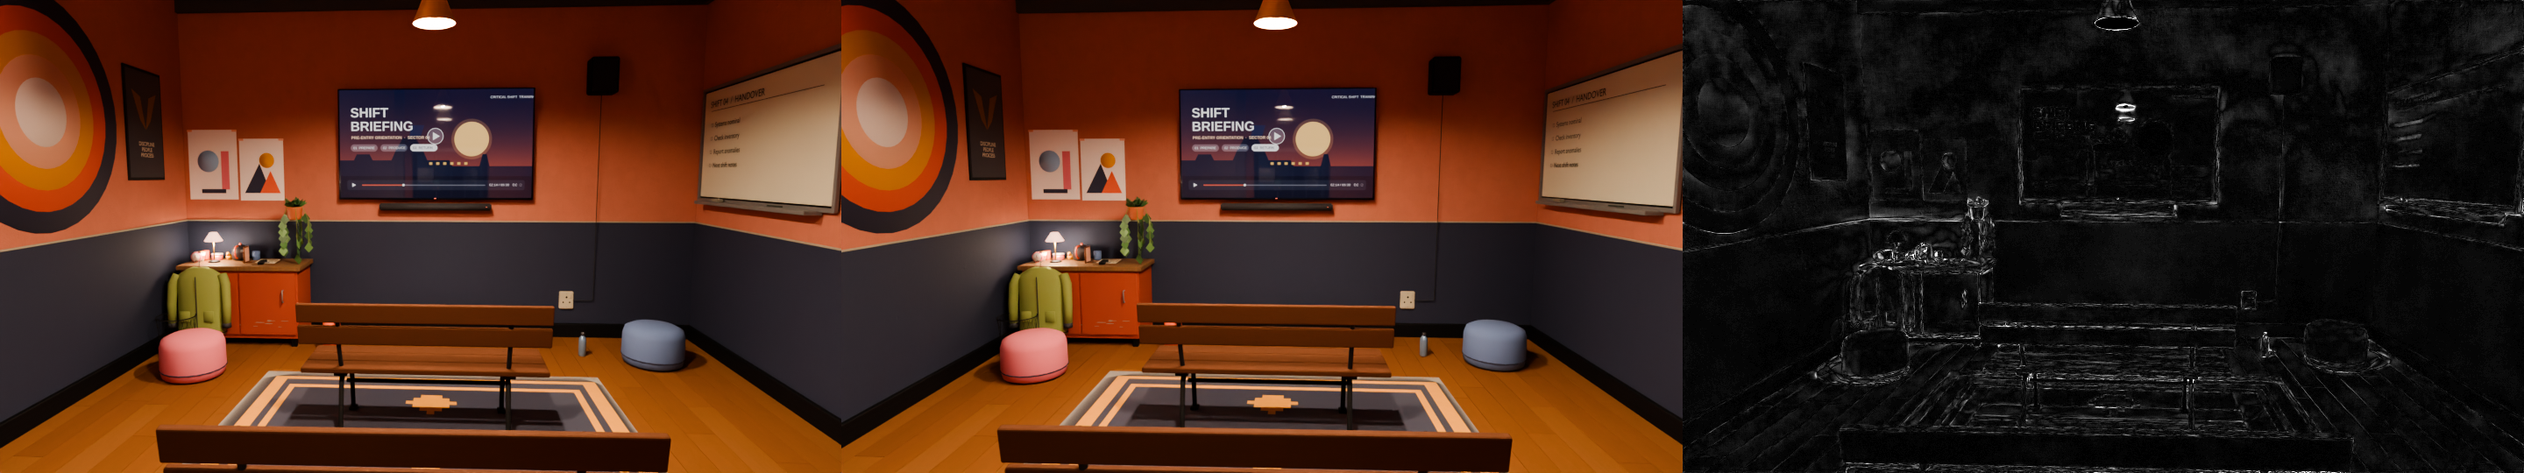
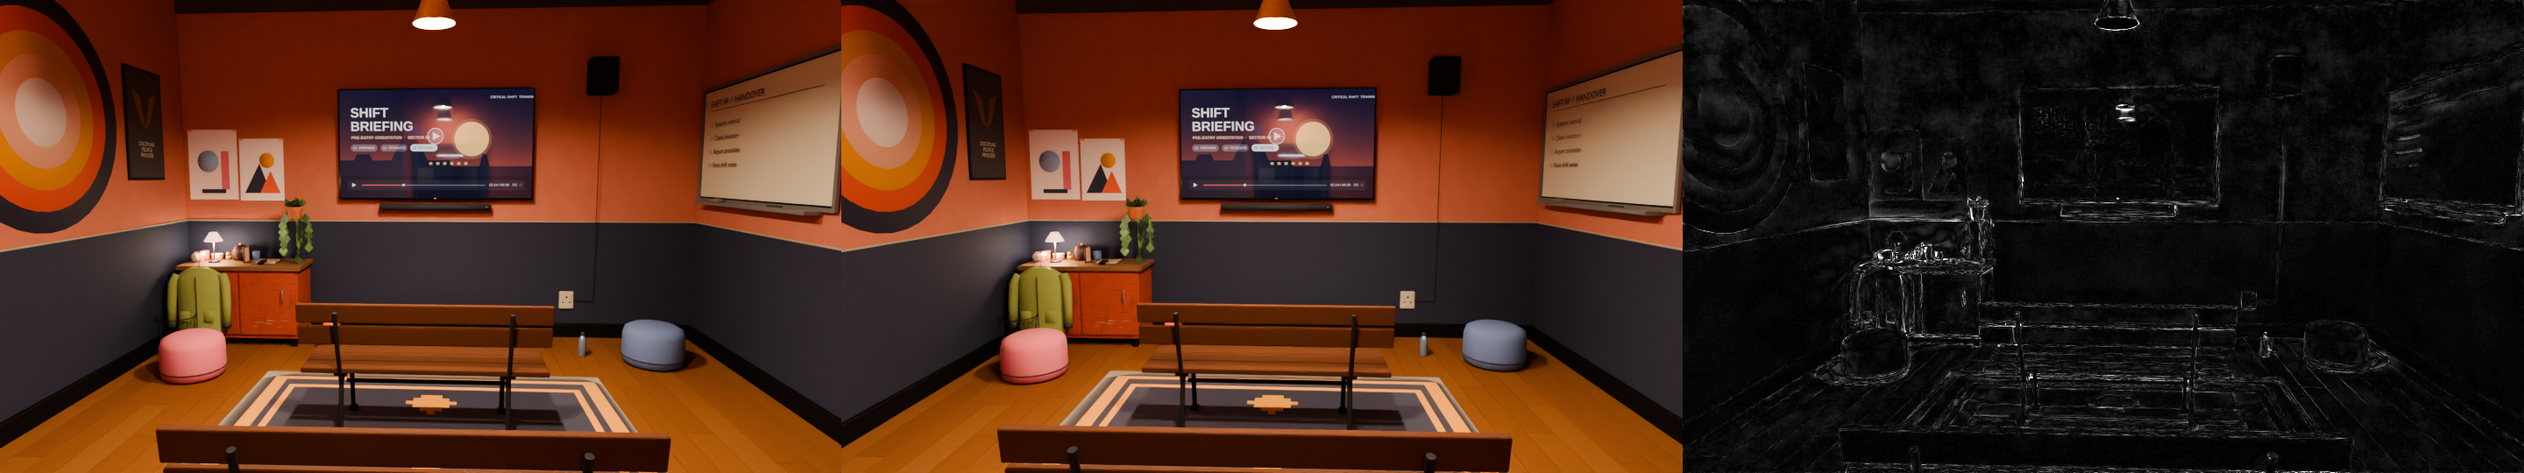
Spawn room polish pass: wear layer, doorway spill, bench posts, Material_A framing, equip contract
Critics rescored 85 and 82 of 100: still not accepted. Optimised derivative regenerated and compared.

Claude-Session: https://claude.ai/code/session_017ZYc5YVsgaxmMpnAsLGzAo

diff --git a/sections/spawn-room/blender/polish_spawn.py b/sections/spawn-room/blender/polish_spawn.py
@@ -1,0 +1,188 @@
+#!/usr/bin/env python3
+"""
+Spawn Room polish pass (final-pass critic findings): wear, doorway light, bench posts, Material_A framing.
+
+Run headlessly (Blender 5.2) on the canonical module, after add_hero_suits.py:
+    blender -b <input.blend> -P polish_spawn.py -- <output.blend>
+
+Idempotent: every step sets absolute values or removes what it added before adding it again.
+  1. BRIEFING_backrest_upright.*: posts moved behind the backrest boards, ending under the top board (they poked through
+     the boards as spikes), with capped ends.
+  2. Wear: a scuff layer (object-space noise mask: darker grime/scuffs, higher roughness) is added to V_locker_steel
+     (lockers), pressure_metal (airlock door face), CS_tile_floor, CS_hall_floor and rubber (mats, feet). Nothing is
+     recoloured: the original graph still drives the base colour, the layer only multiplies/mixes over it.
+  3. Doorway colour spill: one baked area light inside each of the briefing and locker rooms beside its hall door, tinted
+     to the room, so the hall gets colour falloff near the doors. Both are tagged like the existing baked lights.
+  4. Door-frame portals use a slightly lifted graphite instead of the pure-black darksteel so the frames read as frames.
+  5. VALIDATE_Material_A (26 mm, from the locker-room door side) is reframed to hold wall, floor, painted equipment, rubber, paper and glass (CAMERAS.md).
+"""
+import math
+import sys
+
+import bpy
+from mathutils import Vector
+
+OUT = sys.argv[sys.argv.index("--") + 1] if "--" in sys.argv else None
+M = bpy.data.materials
+scene = bpy.context.scene
+LAYER = "POLISH_scuff"
+
+
+# ---------------------------------------------------------------- 1. bench posts
+for o in bpy.data.objects:
+    if o.name.startswith("BRIEFING_backrest_upright") and o.type == "CURVE":
+        s = o.data.splines[0]
+        sx = s.points[0].co[0]
+        for p, (y, z) in zip(s.points, ((0.18, 0.35), (0.28, 0.59), (0.335, 0.82))):
+            p.co = (sx, y, z, 1.0)
+        o.data.use_fill_caps = True
+        o.data.bevel_resolution = 4
+
+
+# ---------------------------------------------------------------- 2. wear
+def add_scuffs(mat, scale, tint, strength, rough_add, streak=0.0, lo=0.52, hi=0.8):
+    nt = mat.node_tree
+    pr = next(n for n in nt.nodes if n.type == "BSDF_PRINCIPLED")
+    # a previous run: put the original base colour / roughness source back before removing the layer
+    for key, idx in (("Base Color", 6), ("Roughness", 2)):
+        sock = pr.inputs[key]
+        if sock.is_linked and sock.links[0].from_node.label.startswith(LAYER):
+            src = sock.links[0].from_node
+            if src.inputs[idx].is_linked:
+                nt.links.new(src.inputs[idx].links[0].from_socket, sock)
+            else:
+                sock.default_value = src.inputs[idx].default_value if key == "Base Color" else src.inputs[idx].default_value
+    for n in [n for n in nt.nodes if n.label.startswith(LAYER)]:
+        nt.nodes.remove(n)
+
+    def node(kind, label, **kw):
+        n = nt.nodes.new(kind)
+        n.label = "%s %s" % (LAYER, label)
+        for k, v in kw.items():
+            setattr(n, k, v)
+        return n
+
+    tc = node("ShaderNodeTexCoord", "coords")
+    mp = node("ShaderNodeMapping", "map")
+    mp.inputs["Scale"].default_value = (scale, scale, scale)
+    nz = node("ShaderNodeTexNoise", "noise")
+    nz.inputs["Scale"].default_value = 1.0
+    nz.inputs["Detail"].default_value = 9.0
+    nz.inputs["Roughness"].default_value = 0.68
+    nz.inputs["Distortion"].default_value = 0.35
+    ramp = node("ShaderNodeValToRGB", "ramp")
+    ramp.color_ramp.elements[0].position, ramp.color_ramp.elements[1].position = lo, hi
+    nt.links.new(tc.outputs["Object"], mp.inputs["Vector"])
+    nt.links.new(mp.outputs["Vector"], nz.inputs["Vector"])
+    nt.links.new(nz.outputs["Fac"], ramp.inputs["Fac"])
+    mask = ramp.outputs["Color"]
+    if streak:
+        sm = node("ShaderNodeMapping", "streak_map")
+        sm.inputs["Scale"].default_value = (scale * 0.7, scale * 0.7, scale * 9.0)
+        sn = node("ShaderNodeTexNoise", "streak_noise")
+        sn.inputs["Scale"].default_value = 1.0
+        sn.inputs["Detail"].default_value = 5.0
+        sr = node("ShaderNodeValToRGB", "streak_ramp")
+        sr.color_ramp.elements[0].position, sr.color_ramp.elements[1].position = 0.55, 0.78
+        nt.links.new(tc.outputs["Object"], sm.inputs["Vector"])
+        nt.links.new(sm.outputs["Vector"], sn.inputs["Vector"])
+        nt.links.new(sn.outputs["Fac"], sr.inputs["Fac"])
+        mx = node("ShaderNodeMath", "streak_mix", operation="MAXIMUM")
+        mul = node("ShaderNodeMath", "streak_scale", operation="MULTIPLY")
+        mul.inputs[1].default_value = streak
+        nt.links.new(sr.outputs["Color"], mul.inputs[0]) if False else None
+        # ramp output is colour: take its red through a Separate node via Math on the Color's first channel
+        sep = node("ShaderNodeSeparateColor", "streak_sep")
+        sep2 = node("ShaderNodeSeparateColor", "mask_sep")
+        nt.links.new(sr.outputs["Color"], sep.inputs["Color"])
+        nt.links.new(ramp.outputs["Color"], sep2.inputs["Color"])
+        nt.links.new(sep.outputs["Red"], mul.inputs[0])
+        nt.links.new(sep2.outputs["Red"], mx.inputs[0])
+        nt.links.new(mul.outputs["Value"], mx.inputs[1])
+        mask = mx.outputs["Value"]
+    else:
+        sep2 = node("ShaderNodeSeparateColor", "mask_sep")
+        nt.links.new(ramp.outputs["Color"], sep2.inputs["Color"])
+        mask = sep2.outputs["Red"]
+    fac = node("ShaderNodeMath", "strength", operation="MULTIPLY")
+    fac.inputs[1].default_value = strength
+    nt.links.new(mask, fac.inputs[0])
+
+    # base colour: original -> mix toward the scuff tint by the mask (the original graph is untouched)
+    bc = pr.inputs["Base Color"]
+    mixc = node("ShaderNodeMix", "colour", data_type="RGBA", blend_type="MIX")
+    if bc.is_linked:
+        orig = bc.links[0].from_socket
+        nt.links.new(orig, mixc.inputs[6])
+    else:
+        mixc.inputs[6].default_value = bc.default_value
+    base_rgb = [bc.default_value[i] for i in range(3)]
+    mixc.inputs[7].default_value = (tint[0], tint[1], tint[2], 1.0) if tint is not None else (*[c * 0.55 for c in base_rgb], 1.0)
+    nt.links.new(fac.outputs["Value"], mixc.inputs[0])
+    nt.links.new(mixc.outputs[2], bc)
+    # roughness: original + mask * rough_add
+    rg = pr.inputs["Roughness"]
+    ra = node("ShaderNodeMath", "rough_add", operation="MULTIPLY_ADD", use_clamp=True)
+    ra.inputs[1].default_value = rough_add
+    nt.links.new(fac.outputs["Value"], ra.inputs[0])
+    if rg.is_linked:
+        nt.links.new(rg.links[0].from_socket, ra.inputs[2])
+    else:
+        ra.inputs[2].default_value = rg.default_value
+    nt.links.new(ra.outputs["Value"], rg)
+
+
+add_scuffs(M["V_locker_steel"], 7.0, None, 0.55, 0.22, streak=0.8)
+add_scuffs(M["pressure_metal"], 4.0, (0.20, 0.20, 0.19), 0.6, 0.28, streak=0.9)
+add_scuffs(M["CS_tile_floor"], 2.4, (0.20, 0.19, 0.17), 0.40, 0.12, lo=0.5, hi=0.85)
+add_scuffs(M["CS_hall_floor"], 2.0, (0.18, 0.12, 0.08), 0.35, 0.12, lo=0.5, hi=0.85)
+add_scuffs(M["rubber"], 5.0, (0.10, 0.10, 0.10), 0.45, 0.10, lo=0.5, hi=0.82)
+
+
+# ---------------------------------------------------------------- 3. doorway colour spill
+for o in [o for o in bpy.data.objects if o.name.startswith(("LOCKER_light_spill", "COZY_light_BRIEFING_spill"))]:
+    bpy.data.objects.remove(o, do_unlink=True)
+
+
+def spill(name, loc, colour, watts, group):
+    ld = bpy.data.lights.new(name, "AREA")
+    ld.shape, ld.size, ld.size_y, ld.energy, ld.color = "RECTANGLE", 0.7, 0.7, watts, colour
+    lo = bpy.data.objects.new(name, ld)
+    lo.location = loc
+    aim = Vector((0.0, loc[1], 1.1)) - Vector(loc)
+    lo.rotation_euler = aim.to_track_quat("-Z", "Y").to_euler()
+    lo["cs_rt_role"] = "baked_plus_emissive_fixture"
+    lo["cs_rt_group"] = group
+    lo["cs_rt_shadow"] = False
+    col = bpy.data.collections.get("MODULE_spawn-room") or scene.collection
+    col.objects.link(lo)
+
+
+spill("COZY_light_BRIEFING_spill", (-2.3, 3.7, 2.5), (1.0, 0.60, 0.38), 70.0, "briefing_and_accents")
+spill("LOCKER_light_spill", (2.3, 3.7, 2.5), (0.70, 0.80, 1.00), 70.0, "locker_power")
+
+
+# ---------------------------------------------------------------- 4. portal frames
+if "portal_frame" not in M:
+    pf = M.new("portal_frame")
+    pf.use_nodes = True
+pb = next(n for n in M["portal_frame"].node_tree.nodes if n.type == "BSDF_PRINCIPLED")
+pb.inputs["Base Color"].default_value = (0.02, 0.021, 0.024, 1.0)
+pb.inputs["Roughness"].default_value = 0.5
+for o in bpy.data.objects:
+    if o.type == "MESH" and ("_portal_head" in o.name or "_portal_jamb" in o.name):
+        o.data.materials.clear()
+        o.data.materials.append(M["portal_frame"])
+
+
+# ---------------------------------------------------------------- 5. Material_A framing
+cam = bpy.data.objects["VALIDATE_Material_A"]
+MAT_LOC = (2.5, 4.3, 1.15)
+MAT_TGT = (5.2, 2.7, 0.7)
+cam.location = MAT_LOC
+cam.data.lens = 26.0
+cam.rotation_euler = (Vector(MAT_TGT) - Vector(MAT_LOC)).to_track_quat("-Z", "Y").to_euler()
+
+if OUT:
+    bpy.ops.wm.save_as_mainfile(filepath=OUT)
+    print("saved", OUT)

diff --git a/sections/spawn-room/blender/add_hero_suits.py b/sections/spawn-room/blender/add_hero_suits.py
@@ -185,7 +185,9 @@ for n in (1, 2, 3, 4):
         link_cols(e)
     asset["asset_role"] = "equippable_suit"
     asset["cs_equip_station"] = n                  # player/station i; equipping hides this asset until it is returned
-    asset["cs_hide_on_equip"] = True
+    asset["cs_hide_on_equip"] = True               # hidden while the player wears it
+    asset["cs_show_on_unequip"] = True             # reappears when it is taken off
+    asset["cs_unequip_only_at_station"] = True     # it can only be taken off at its own locker
     asset["cs_support_target"] = ro.name
     asset["cs_support_direction"] = "WORLD_-Z"
     for cname in ("MODULE_spawn-room", "PPE_STATIONS", "CS_SUPPORT_REQUIRED", "CS_FLOOR_DRESSING"):

diff --git a/sections/spawn-room/production/optimise/README.md b/sections/spawn-room/production/optimise/README.md
@@ -17,12 +17,12 @@ Regenerate with Blender 5.2 (the module is a 5.2 file; the `bpy` wheel on PyPI i
 | | module.blend | module_optimised.blend |
 |---|---:|---:|
 | Render-visible geometry objects | 1,570 | 759 |
-| Triangles | 351,478 | 351,478 |
+| Triangles | 351,590 | 351,590 |
 | Draw-call estimate (objects x material slots, before any engine batching) | 1,918 | 762 |
-| Materials in use | 204 | 31 (30 visible plus one untouched copy for animated labels; the 24-material spawn-room cap comes from the per-room budget in PR #59, branch `claude/eloquent-rubin-5y6lnu`, `design/MATERIAL_BUDGETS.md`, where the owner's approval of 2026-10-01 is recorded; that document is not on `main` yet) |
-| Lights | 18 | 18 (the optimisation changes none, it only tags roles; the 18 are the 14 original lights plus the 4 baked locker strip lights added by the hero pass) |
+| Materials in use | 205 | 31 (30 visible plus one untouched copy for animated labels; the 24-material spawn-room cap comes from the per-room budget in PR #59, branch `claude/eloquent-rubin-5y6lnu`, `design/MATERIAL_BUDGETS.md`, where the owner's approval of 2026-10-01 is recorded; that document is not on `main` yet) |
+| Lights | 20 | 20 (the optimisation changes none, it only tags roles; the 20 are the 14 original lights, 4 baked locker strip lights and 2 baked doorway spill lights added by the hero and polish passes) |
 
-Numbers reflect the module after the hero-suit pass (`../../blender/add_hero_suits.py`: the crew worker's own hazmat suit hung in each of the four PPE lockers).
+Numbers reflect the module after the hero-suit pass (`../../blender/add_hero_suits.py`: the crew worker's own hazmat suit hung in each of the four PPE lockers) and the polish pass (`../../blender/polish_spawn.py`).
 
 Every number below (objects, joins, conversions, draw calls, materials) comes from one run, recorded in
 `optimise_report.json` next to this file.
@@ -36,7 +36,7 @@ Every number below (objects, joins, conversions, draw calls, materials) comes fr
    attributes `CS_GEN` / `CS_OBJ`, on every mesh including hidden ones, and those materials read the attributes, so joining
    parts cannot change a pattern. Curve/text objects that stay curves cannot carry attributes, so they keep an
    untouched copy of the material (`<name>__noattr`).
-3. The 140 constant-colour Principled materials are folded into one `PAL_flat` material: three packed 16x16 float images
+3. The 141 constant-colour Principled materials are folded into one `PAL_flat` material: three packed 16x16 float images
    (albedo, roughness+metal, emission), `Closest` sampling, a `CS_PAL` UV layer. Cell mapping is in text block `OPT_PALETTE`.
 3b. **Material families** (the method of the reactor control room, PR #54; budgets in PR #59): materials with exactly the same node graph that differ only in
    constants become one `FAM ...` material. The constants (every differing socket value, and the two stop colours of each
@@ -67,22 +67,22 @@ Every number below (objects, joins, conversions, draw calls, materials) comes fr
   lost the keyframes of
   `POD_state_READY` (an animated text object converted to a mesh); Codex's review of #60 caught this class of bug and the
   comparison now fails on it, and also fails if the derivative gains an action, driver or NLA entry the original did not have.
-- `validate_contacts.py` on the derivative: PASS (208 tagged objects, 0 failures) on the post-suit module, same as the original (the count was 224 before the suit pass removed the belongings and added the hooks, docks and strip lights). (An earlier
+- `validate_contacts.py` on the derivative: PASS (208 tagged objects, 0 failures) on the post-polish module, same as the original (the count was 224 before the suit pass removed the belongings and added the hooks, docks and strip lights). (An earlier
   version of this script merged support targets and failed 48 of them; targets are now kept by name.)
 - Render comparison (Cycles, 48 samples, denoised, fixed seed, 960x540) on six fixed validation cameras, original vs
   derivative; `renders/<camera>.png` shows before | after | difference amplified 6x:
 
   | Camera | mean abs diff | 99th percentile | pixels differing by more than 8% |
   |---|---:|---:|---:|
-  | VALIDATE_Spawn | 0.0066 | 0.047 | 0.186% |
-  | VALIDATE_LockerDoor | 0.0073 | 0.047 | 0.194% |
-  | VALIDATE_BriefingDoor | 0.0091 | 0.051 | 0.311% |
-  | VALIDATE_ExitReverse | 0.0057 | 0.039 | 0.101% |
-  | VALIDATE_Hero_A | 0.0071 | 0.051 | 0.249% |
-  | VALIDATE_Material_A | 0.0062 | 0.039 | 0.112% |
+  | VALIDATE_Spawn | 0.0067 | 0.043 | 0.169% |
+  | VALIDATE_LockerDoor | 0.0072 | 0.043 | 0.134% |
+  | VALIDATE_BriefingDoor | 0.0087 | 0.051 | 0.295% |
+  | VALIDATE_ExitReverse | 0.0060 | 0.039 | 0.100% |
+  | VALIDATE_Hero_A | 0.0067 | 0.043 | 0.159% |
+  | VALIDATE_Material_A | 0.0081 | 0.047 | 0.160% |
 
   The differences sit on edges (anti-aliasing and denoiser noise from a different object order); there are no
-  colour or pattern shifts. Rendered again on the post-suit module and its regenerated derivative; I looked at the Hero_A montage (suit, visor, boot dock and strip light match, differences on edges only); the other five were checked by the numbers only. This is a Cycles comparison, not engine rendering, and not art approval.
+  colour or pattern shifts. Rendered again on the post-polish module (wear layer, doorway spill, reframed Material_A) and its regenerated derivative; I looked at the Material_A montage (wear, suit, glass and lights match, differences on edges only); the other five were checked by the numbers only. This is a Cycles comparison, not engine rendering, and not art approval.
 
 ## Not done / not claimed
 

diff --git a/sections/spawn-room/production/final-pass/REPORT.md b/sections/spawn-room/production/final-pass/REPORT.md
@@ -33,9 +33,30 @@ The owner confirmed four lockers, one per player. A first hand-modelled suit was
 - `../../blender/add_hero_suits.py` (idempotent) builds one suit per locker `PPE_01..04` without the wearer (skin, head and face removed), facing the open front, pack against the back panel, hung by a strap from the rescue handle to a hook over the hanger rail. Per-player accent colour: blue, green, magenta, cream. Suit scale is the player's (about 1.7 m including the hood antenna).
 - It removes the personal-belongings dressing the suit replaces (jacket, wooden hangers, mid shelf and contents, floor work boots) and the earlier hand-modelled suit, helmet and cradle. The locker `contents` property is updated.
 - Contacts: hooks rest on the hanger rail; `validate_contacts.py` **PASS 208/208** (224 before; the difference is the removed belongings, minus the added hooks and strip lights). `check_layout.py` still 6 PASS; a missing or renamed named object or collection is now reported `MISSING` in the JSON instead of aborting the run.
-- `module_optimised.blend` regenerated: 759 objects, 762 draw calls, 31 materials, 351,478 triangles (about 28,000 more than the suit-less room, 7,000 per suit: the cost of using the player's own mesh); `compare_signatures.py` before/after PASS.
+- `module_optimised.blend` regenerated: 759 objects, 762 draw calls, 31 materials, 351,590 triangles after the polish pass (about 28,000 more than the suit-less room, 7,000 per suit: the cost of using the player's own mesh); `compare_signatures.py` before/after PASS.
 - Renders with suits: `renders_with_suits/` (Spawn, LockerDoor, LockerReverse, Hero_A, 480p, 16 spp).
 - **Lighting and suit fixes (owner request):** each locker has a baked strip light under its upper shelf (visible fixture, 40 W area, tagged `baked_plus_emissive_fixture` / `locker_power`, not dynamic; light budget unchanged at 4 dynamic, 2 shadow casters), set behind the hood so the visor does not mirror it. The neck stub is cut and capped with a dark inner collar. Hall lighting and the other rooms were **not** changed.
 - **Floating fix:** each suit now stands on a low steel boot dock (plate, rubber pad, two legs) on the locker floor, measured to the sole underside and registered against the floor shelf, in addition to the strap and hook. Render: `renders_with_suits/locker1_boot_dock.png`.
 - **Equip:** the suit asset carries `cs_equip_station` and `cs_hide_on_equip`; the toggle itself is runtime logic and is not built or tested. See `SUIT_EQUIP.md`.
 - **Not re-scored.** The critic scores above predate the suits. Open items from the list above remain: material wear, lighting falloff, LockerReverse white blob, Walk_C bench uprights, plants and signage.
+
+## Update: polish pass (owner request) and critic rescore
+`../../blender/polish_spawn.py` (idempotent, run after `add_hero_suits.py`) applied, to the canonical module:
+- **Bench posts:** `BRIEFING_backrest_upright.*` moved behind the backrest boards and ending under the top board, ends capped (they poked through as spikes in Walk_C).
+- **Wear:** a scuff layer (object-space noise mask: darker grime and scuffs, rougher) added over the original graphs of `V_locker_steel` (lockers), `pressure_metal` (airlock door face), `CS_tile_floor`, `CS_hall_floor` and `rubber`; the original graph still drives the base colour.
+- **Doorway colour spill:** two baked area lights (warm in the briefing room, cool in the locker room) beside the hall doors; the module now has 20 lights (14 original, 4 locker strips, 2 spill), still 4 dynamic and 2 shadow casters.
+- **Door frames:** the portal frames use a lifted graphite (`portal_frame`) instead of pure-black `darksteel`.
+- **Material_A:** reframed (26 mm, from the locker-room door side) to hold wall, floor, painted locker, rubber, paper and glass.
+- **LockerReverse "white blob":** not geometry. A ray through it hits only the chamber glass and the wall behind; it is the reflection of a ceiling strip in the curved glass, so it was left.
+- **Equip contract updated** with the owner's decision: the suit reappears once removed and can only be removed at its own locker (`cs_show_on_unequip`, `cs_unequip_only_at_station`; `SUIT_EQUIP.md`). Runtime logic is still not built.
+
+Checks that ran: `validate_contacts.py` PASS 208/208 on the canonical module and on the regenerated `module_optimised.blend`; `check_layout.py` 6 PASS; `compare_signatures.py` canonical vs optimised PASS.
+
+**Critic rescore** (two fresh-context critics, 11 renders in `renders_polish/`, 1280x720, 64 spp): **85 and 82 of 100. Still below 90, the room is NOT accepted.** Before the suits and polish the scores were 85 and 72.
+Common remaining findings:
+1. The suits (the owner's chosen player-character suit) read as a toy or plush mannequin to the critics: no fabric folds or seams. This is the owner's design; any change is an owner decision.
+2. Hall lighting still reads even (two ceiling strips, little falloff); materials wear is subtle; locker doors are large flat slabs in the foreground of LockerDoor and LockerReverse.
+3. Low-poly plants and the amount of signage (bulletin board, slogan board) read as filler or heavy.
+4. Camera framing: LockerDoor hides one suit per side behind open doors; one critic called the Spawn black door-frame slab at the far left a geometry error (it is the black frame of the briefing door).
+5. The LockerReverse chamber glass reflection reads as an artefact to both critics.
+Reaching 90 needs owner-level decisions (suit style and fabric detail, plants, signage, door sizes) rather than more material tweaks.

diff --git a/sections/spawn-room/production/TASK_STATE.md b/sections/spawn-room/production/TASK_STATE.md
@@ -6,7 +6,7 @@
 
 
 **Current phase:** Built; final pass run, NOT accepted (see [final-pass/REPORT.md](final-pass/REPORT.md))
-**Current overall score:** Independent critics 85 and 72 of 100 on the pre-suit renders (needs >= 90); not re-scored since
+**Current overall score:** Independent critics 85 and 82 of 100 after the suits and the polish pass (needs >= 90)
 **Cold-start status:** Not run
 **Authoritative source:** ../../facility-assembly/sources/spawn-room/module.blend (runtime derivative: module_optimised.blend)
 
@@ -19,10 +19,10 @@
 - Automated support-contact validator and tagging convention
 
 ## Worst current visible defects
-Hero suits are done (the crew worker's own suit on a boot dock in each of the four lockers, with a baked locker strip light; owner-approved) and the Geiger checkpoint is dropped (player HUD). Remaining, from [final-pass/REPORT.md](final-pass/REPORT.md): uniform clean materials (locker paint, airlock door, floor tile), flat hall lighting and black doorways, Material_A framing, white blob in LockerReverse glass, bench uprights in Walk_C, plants and signage. Not yet re-scored since the suits.
+Suits, Geiger drop and the polish pass (wear, doorway spill, bench posts, Material_A framing) are done; see [final-pass/REPORT.md](final-pass/REPORT.md). The critics still score 85 and 82. Remaining: the suit reads as a toy mannequin to the critics (owner's design: needs a decision on fabric detail), even hall lighting with little falloff, subtle wear, large flat locker doors in LockerDoor/LockerReverse, low-poly plants and heavy signage, LockerDoor hiding one suit per side behind open doors, and the chamber-glass reflection reading as an artefact.
 
 ## Next actions
-1. Owner decision: does the suit reappear if the player returns or removes it (`final-pass/SUIT_EQUIP.md`); the equip toggle itself is runtime work, not built.
-2. Material wear and hall/doorway lighting pass on the canonical module, then regenerate the optimised derivative.
-3. Reframe Material_A; fix Walk_C bench and the LockerReverse blob.
+1. Owner decisions: suit fabric detail (folds, seams, wear) on the player-character suit; whether to cut or replace the plants; how much signage stays; door sizes or open angles for the locker cameras.
+2. Hall lighting falloff pass, if the owner wants more change to the approved lighting.
+3. Runtime: equip toggle and locker interaction (`final-pass/SUIT_EQUIP.md`), not built.
 4. Re-run critics (at least 4 cycles) and a cold start.

diff --git a/sections/spawn-room/production/final-pass/SUIT_EQUIP.md b/sections/spawn-room/production/final-pass/SUIT_EQUIP.md
@@ -5,11 +5,19 @@ Each locker `PPE_0n` holds one hanging suit, asset root `PPE_0n_suit` (empty), o
 Authored properties on the asset root:
 - `asset_role = "equippable_suit"`
 - `cs_equip_station = n`
-- `cs_hide_on_equip = True`
+- `cs_hide_on_equip = True`: hidden while the player wears it
+- `cs_show_on_unequip = True`: reappears when it is taken off
+- `cs_unequip_only_at_station = True`: it can only be taken off at its own locker
 
-Intended runtime behaviour (owner request): when the player for station `n` equips the suit, the whole `PPE_0n_suit`
-hierarchy (suit, hook and strap; the boot dock `PPE_0n_boot_dock` and the locker strip light are separate and stay) is hidden or deactivated, so the locker
-reads empty; the suit is the same asset the player character wears (`character_suit.build_hazmat`).
+Owner decisions (2026-10-01):
+1. When the player for station `n` equips the suit, the whole `PPE_0n_suit` hierarchy (suit, hook and strap; the boot dock
+   `PPE_0n_boot_dock` and the locker strip light are separate and stay) is hidden or deactivated, so the locker reads
+   empty with its dock.
+2. The suit reappears once it is removed, and it can only be removed in the locker (at the station the suit belongs to).
+   Returning it is therefore a locker interaction, not a drop anywhere in the facility.
 
-Not implemented here: the toggle itself is runtime logic and was not built or tested (no Unity project in this repo
-state). Open owner decision: whether the suit reappears if the player returns or removes it.
+The suit is the same asset the player character wears (`character_suit.build_hazmat`).
+
+Not implemented here: the toggle and the locker interaction are runtime logic and were not built or tested (no Unity
+project in this repo state). Open for the runtime owner: what happens to a suit that is equipped when its player
+disconnects, and whether another player may take an unworn suit from a locker that is not theirs.

diff --git a/sections/spawn-room/production/CAMERAS.md b/sections/spawn-room/production/CAMERAS.md
@@ -56,7 +56,7 @@ Integrity-chamber circulation edge.
 Briefing seating aisle.
 
 ### VALIDATE_Material_A
-Close/medium view containing wall, floor, painted equipment, rubber, paper and glass.
+Close/medium view containing wall, floor, painted equipment, rubber, paper and glass. Current framing: 26 mm from the locker-room door side across the changing bench toward the integrity chamber (wall, tile floor, locker, rubber mat, papers and notice board, chamber glass).
 
 Used specifically for anti-plastic review.
 
